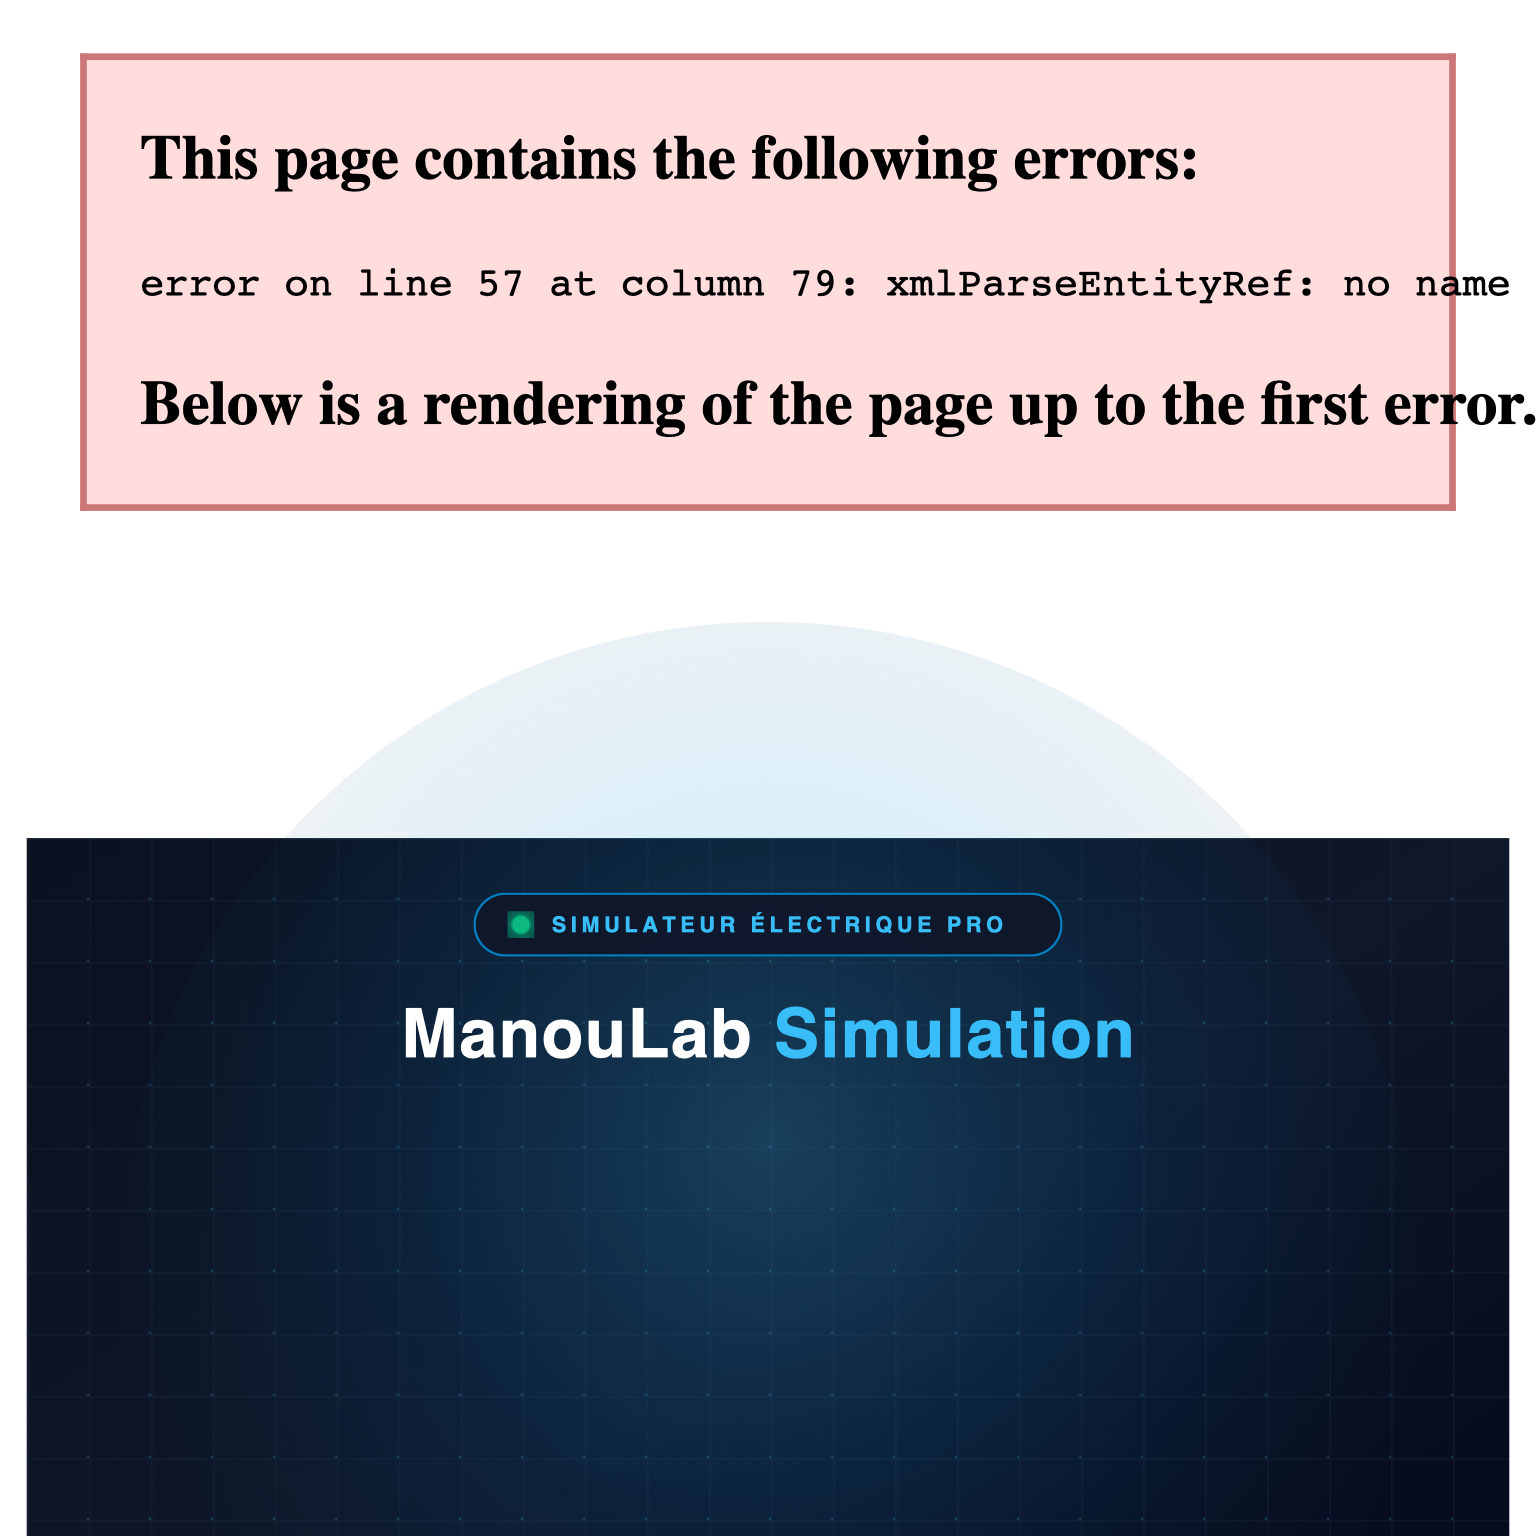
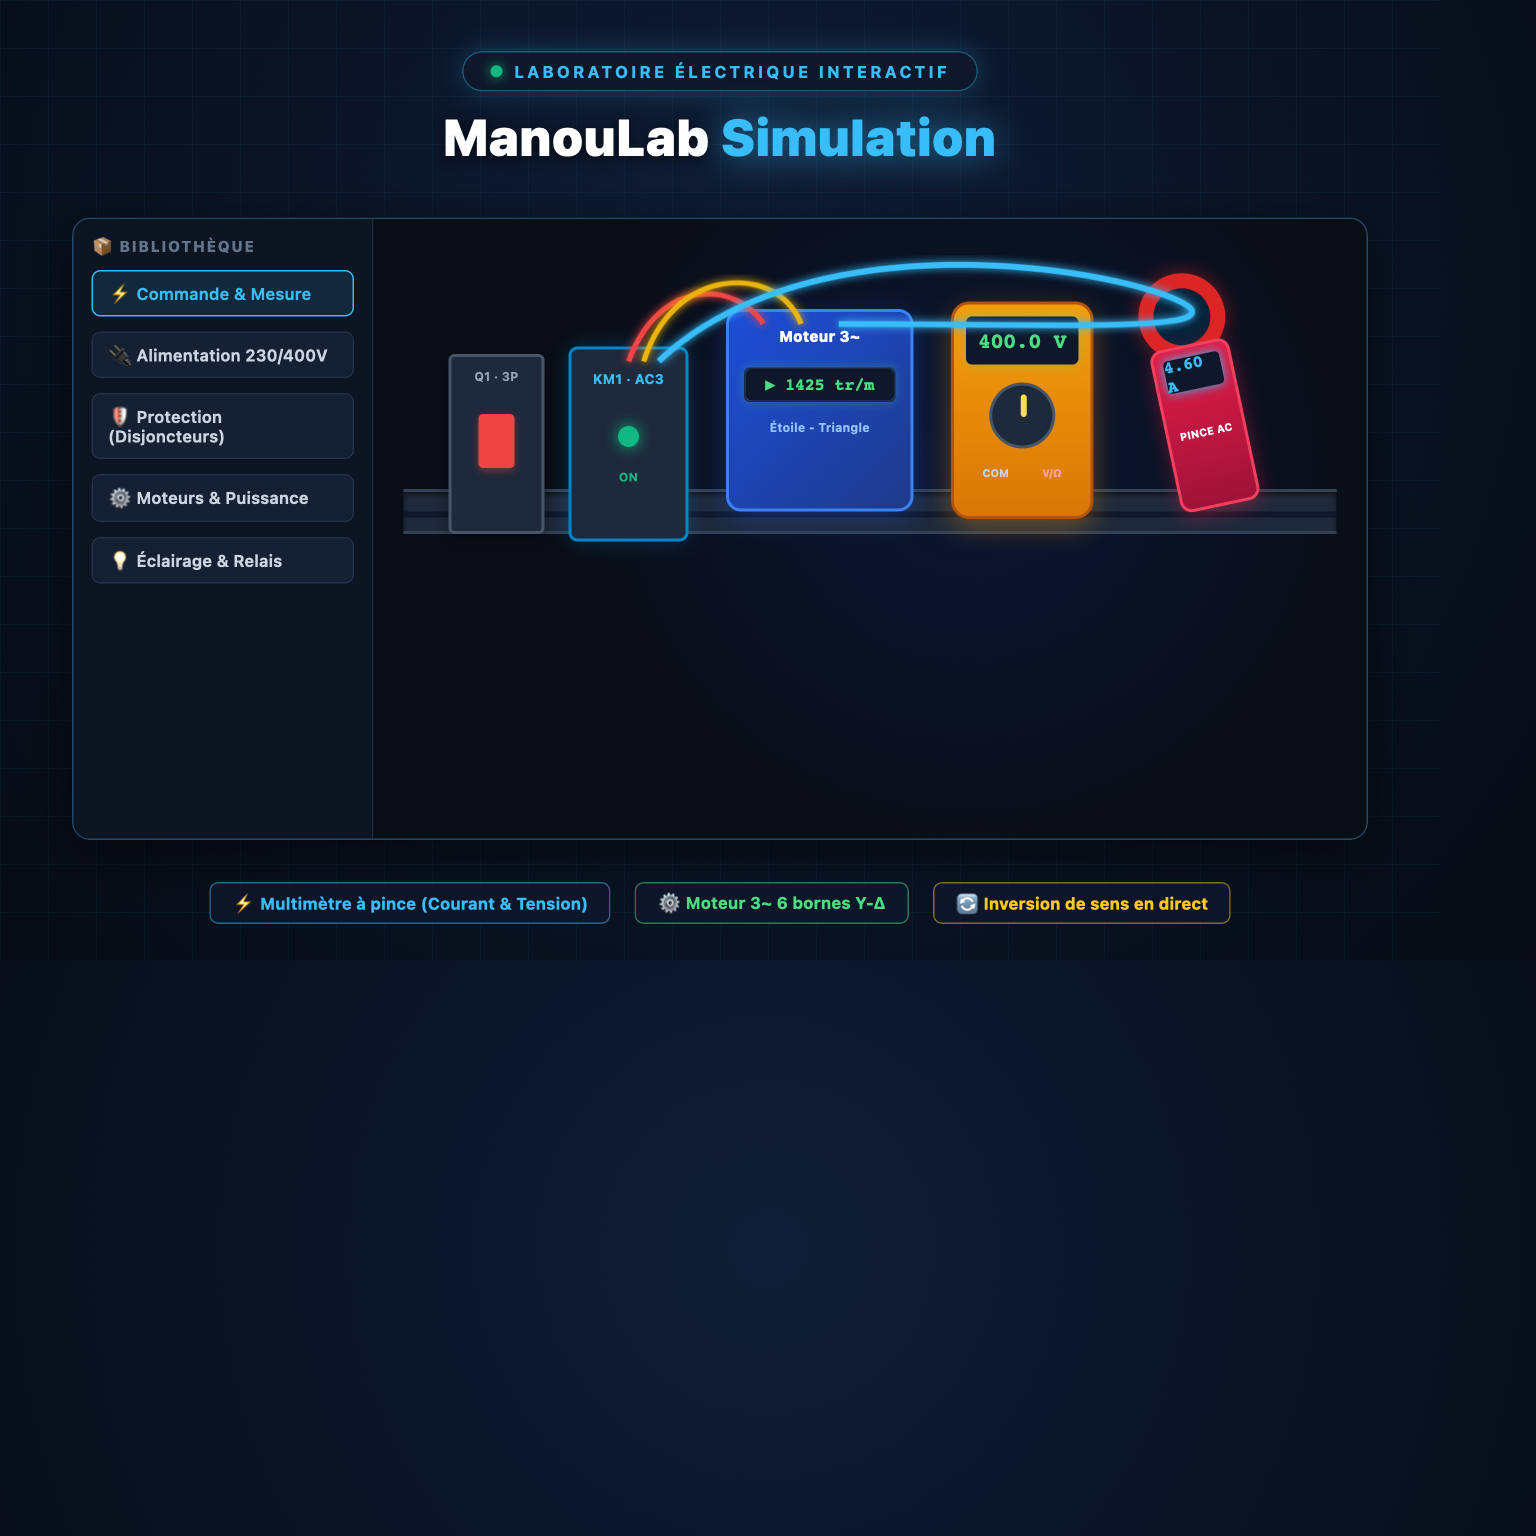
fix(ui): miniature neon realiste ManouLab et styles CSS de tuile

diff --git a/css/section-cards.css b/css/section-cards.css
@@ -53,6 +53,7 @@
 .quick-item--schema { --quick-accent: #4ade80; }
 .quick-item--pdf { --quick-accent: #f87171; }
 .quick-item--train { --quick-accent: #a78bfa; }
+.quick-item--manoulab { --quick-accent: #38bdf8; }
 .quick-item--sim { --quick-accent: #e30613; }
 .quick-item--oibt { --quick-accent: #38bdf8; }
 .quick-item--fluke { --quick-accent: #f97316; }

diff --git a/css/section-hover.css b/css/section-hover.css
@@ -40,6 +40,11 @@
   stroke-linejoin: round;
 }
 
+.quick-access--icons .quick-item--manoulab .ico-wrap {
+  background: rgba(56, 189, 248, 0.12);
+  border-color: rgba(56, 189, 248, 0.45);
+}
+
 .quick-access--icons .quick-item--sim .ico-wrap {
   background: rgba(227, 6, 19, 0.12);
   border-color: rgba(227, 6, 19, 0.38);
